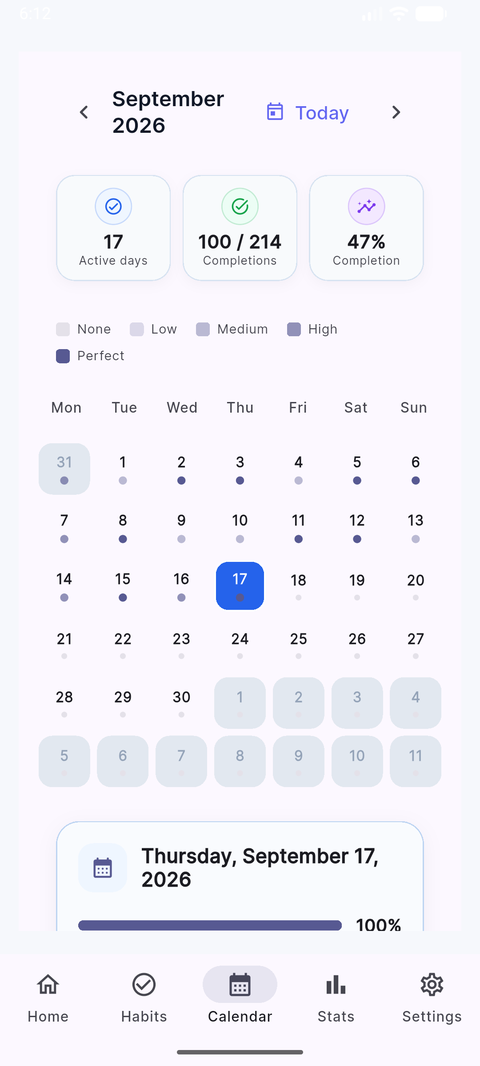
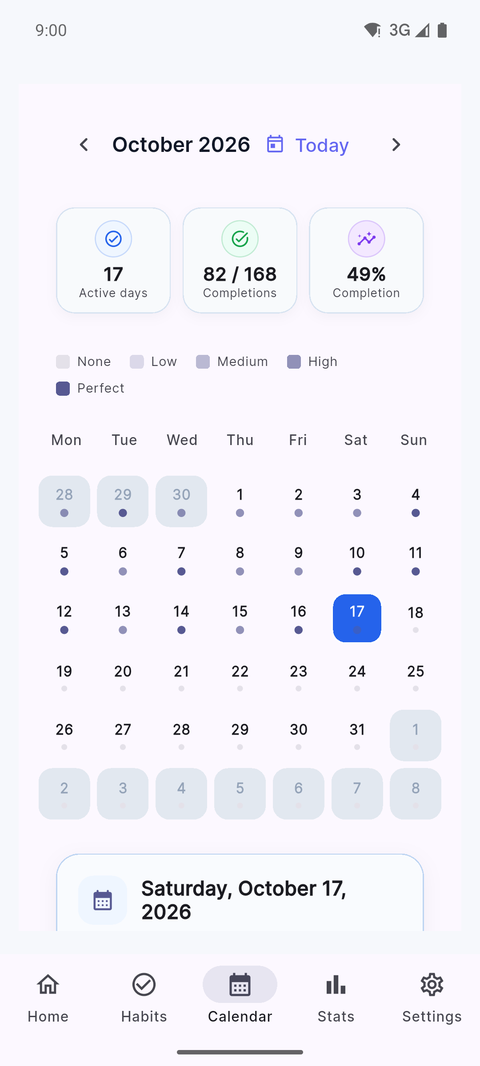
New screenshots from build 16 with demo data

diff --git a/index.html b/index.html
@@ -371,9 +371,9 @@
 </section>
 
 <div class="screens">
-  <img src="assets/screenshot-habits.png" alt="StreakFlow habit list showing streaks and categories" loading="lazy">
+  <img src="assets/screenshot-habits.png" alt="StreakFlow habit list showing streaks, categories and a daily water target" loading="lazy">
   <img src="assets/screenshot-calendar.png" alt="StreakFlow calendar view of completion history" loading="lazy">
-  <img src="assets/screenshot-details.png" alt="StreakFlow habit detail screen with streak info" loading="lazy">
+  <img src="assets/screenshot-details.png" alt="StreakFlow habit statistics showing a 31-day streak" loading="lazy">
 </div>
 
 <section class="features" id="features">
